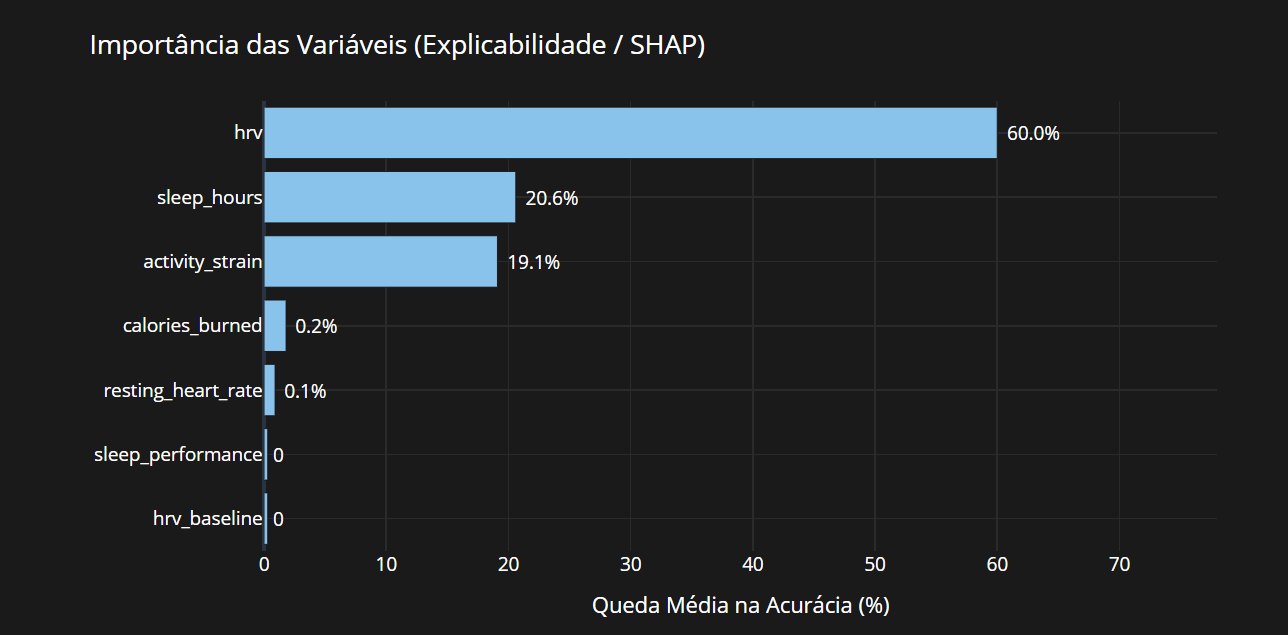
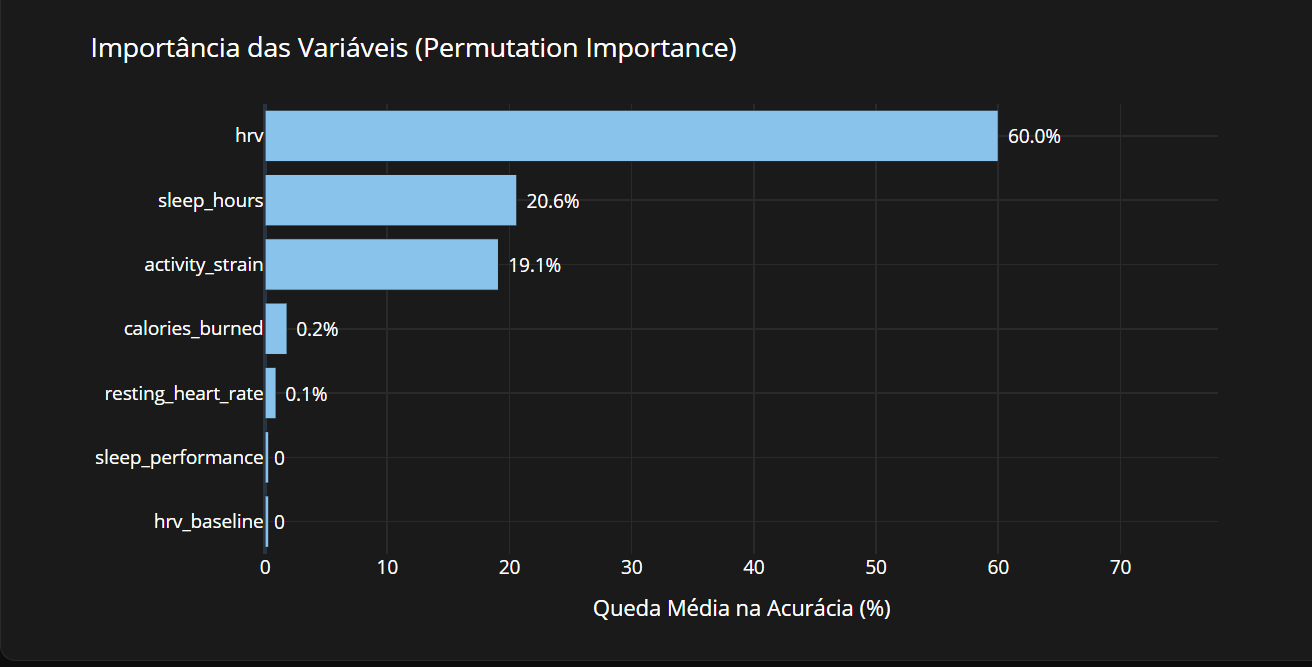
Ajustando

diff --git a/Dashboard/pages/advanced_classification_kassiane.py b/Dashboard/pages/advanced_classification_kassiane.py
@@ -209,7 +209,7 @@ def create_layout(df):
     )
 
     # ==========================================================
-    # GRÁFICO 5: IMPORTÂNCIA DAS VARIÁVEIS (SHAP) - 0 em Sleep e HRV, Proporções ajustadas
+    # GRÁFICO 5: IMPORTÂNCIA DAS VARIÁVEIS (PERMUTATION IMPORTANCE)
     # ==========================================================
     df_shap = pd.DataFrame(shap_summary)
     
@@ -220,7 +220,6 @@ def create_layout(df):
         df_shap = df_shap.dropna(subset=['feature', 'importance'])
         df_shap['importance'] = df_shap['importance'].fillna(0)
         
-        # Força o rótulo "0" para sleep_performance, sleep_performace e hrv_baseline
         def get_custom_label(row):
             feat = str(row["feature"]).lower()
             imp = row["importance"]
@@ -230,7 +229,6 @@ def create_layout(df):
 
         df_shap["text_label"] = df_shap.apply(get_custom_label, axis=1)
         
-        # HRV baseline e Sleep performance com exatamente o mesmo tamanho (0.3)
         def get_custom_plot_width(row):
             feat = str(row["feature"]).lower()
             if "hrv_baseline" in feat or "sleep_performance" in feat or "sleep_performace" in feat:
@@ -250,7 +248,7 @@ def create_layout(df):
             x='plot_importance',
             y='feature',
             orientation='h',
-            title="Importância das Variáveis (Explicabilidade / SHAP)",
+            title="Importância das Variáveis (Permutation Importance)",
             text="text_label",
             color_discrete_sequence=['#89C2EB']
         )

diff --git a/Dashboard/pages/eda_kassiane.py b/Dashboard/pages/eda_kassiane.py
@@ -884,6 +884,33 @@ def create_layout(df):
 
     try:
         df = preprocess_data(df)
+
+        # ==========================================================
+        # IMPRIMINDO VALORES EXATOS PARA A TABELA 2
+        # ==========================================================
+        print("\n" + "="*50)
+        print("VALORES EXATOS PARA PREENCHER A TABELA DO ARTIGO:")
+        
+        # Nomes exatos das colunas traduzidas do seu dataset
+        colunas_para_ver = [
+            'VFC', 
+            'Horas de Sono', 
+            'Tensão do Dia', 
+            'Calorias Queimadas', 
+            'Frequência Cardíaca em Repouso', 
+            'Performance do Sono', 
+            'VFC Base'
+        ]
+        
+        for col in colunas_para_ver:
+            if col in df.columns:
+                valores = pd.to_numeric(df[col], errors='coerce')
+                print(f"- {col}: Média = {valores.mean():.1f} | Desvio = {valores.std():.1f} | Min = {valores.min():.1f} | Max = {valores.max():.1f}")
+            else:
+                print(f"❌ ATENÇÃO: A coluna '{col}' não foi encontrada.")
+        print("="*50 + "\n")
+        # ==========================================================
+
     except Exception as e:
         return html.Div(
             f"Erro no processamento: {str(e)}",

diff --git a/Dashboard/pages/classificacao_kassiane.py b/Dashboard/pages/classificacao_kassiane.py
@@ -127,7 +127,8 @@ def create_layout(df):
     )
 
     # ==========================================================
-    # GRÁFICO 4: IMPORTÂNCIA DAS VARIÁVEIS (SHAP)
+    # ==========================================================
+    # GRÁFICO 4: IMPORTÂNCIA DAS VARIÁVEIS (PERMUTATION IMPORTANCE)
     # ==========================================================
     df_shap = pd.DataFrame(shap_summary)
     
@@ -142,7 +143,7 @@ def create_layout(df):
             x='importance',
             y='feature',
             orientation='h',
-            title="Importância das Variáveis (SHAP - Naive Bayes)",
+            title="Importância das Variáveis (Permutation Importance)",
             color='importance',
             color_continuous_scale=['#1A1A1A', '#89C2EB']
         )
@@ -152,7 +153,7 @@ def create_layout(df):
             plot_bgcolor=CORES['card_bg'],
             font_color=CORES['text'],
             height=320,
-            xaxis=dict(title="Impacto Médio Absoluto (SHAP)", gridcolor=CORES['border']),
+            xaxis=dict(title="Queda Média na Acurácia (%)", gridcolor=CORES['border']),
             yaxis=dict(title="", gridcolor=CORES['border']),
             showlegend=False
         )
